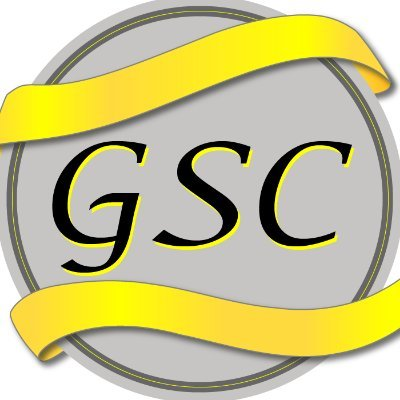
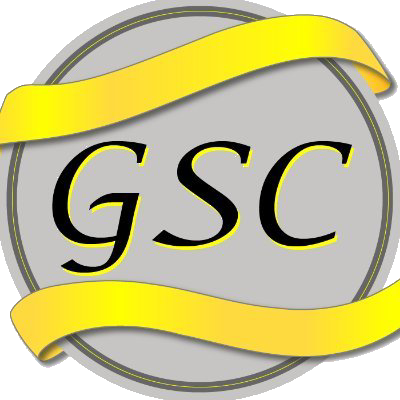
updated gsv image

diff --git a/involvement.html b/involvement.html
@@ -73,7 +73,7 @@
 							</header>
 
 							<section class="spotlight">
-								<div class="image"><img src="images/gsc.jpg" style="width:400px" alt="Goldwater schollars community logo" /></div><div class="content">
+								<div class="image"><img src="images/gsc.jpg" style="width:300px" alt="Goldwater schollars community logo" /></div><div class="content">
 									<h2>Goldwater Scholars Community Council
 									</h2>
 									<p>Organize programming and events for Goldwater Scholars. Help to foster a community among Scholars.
